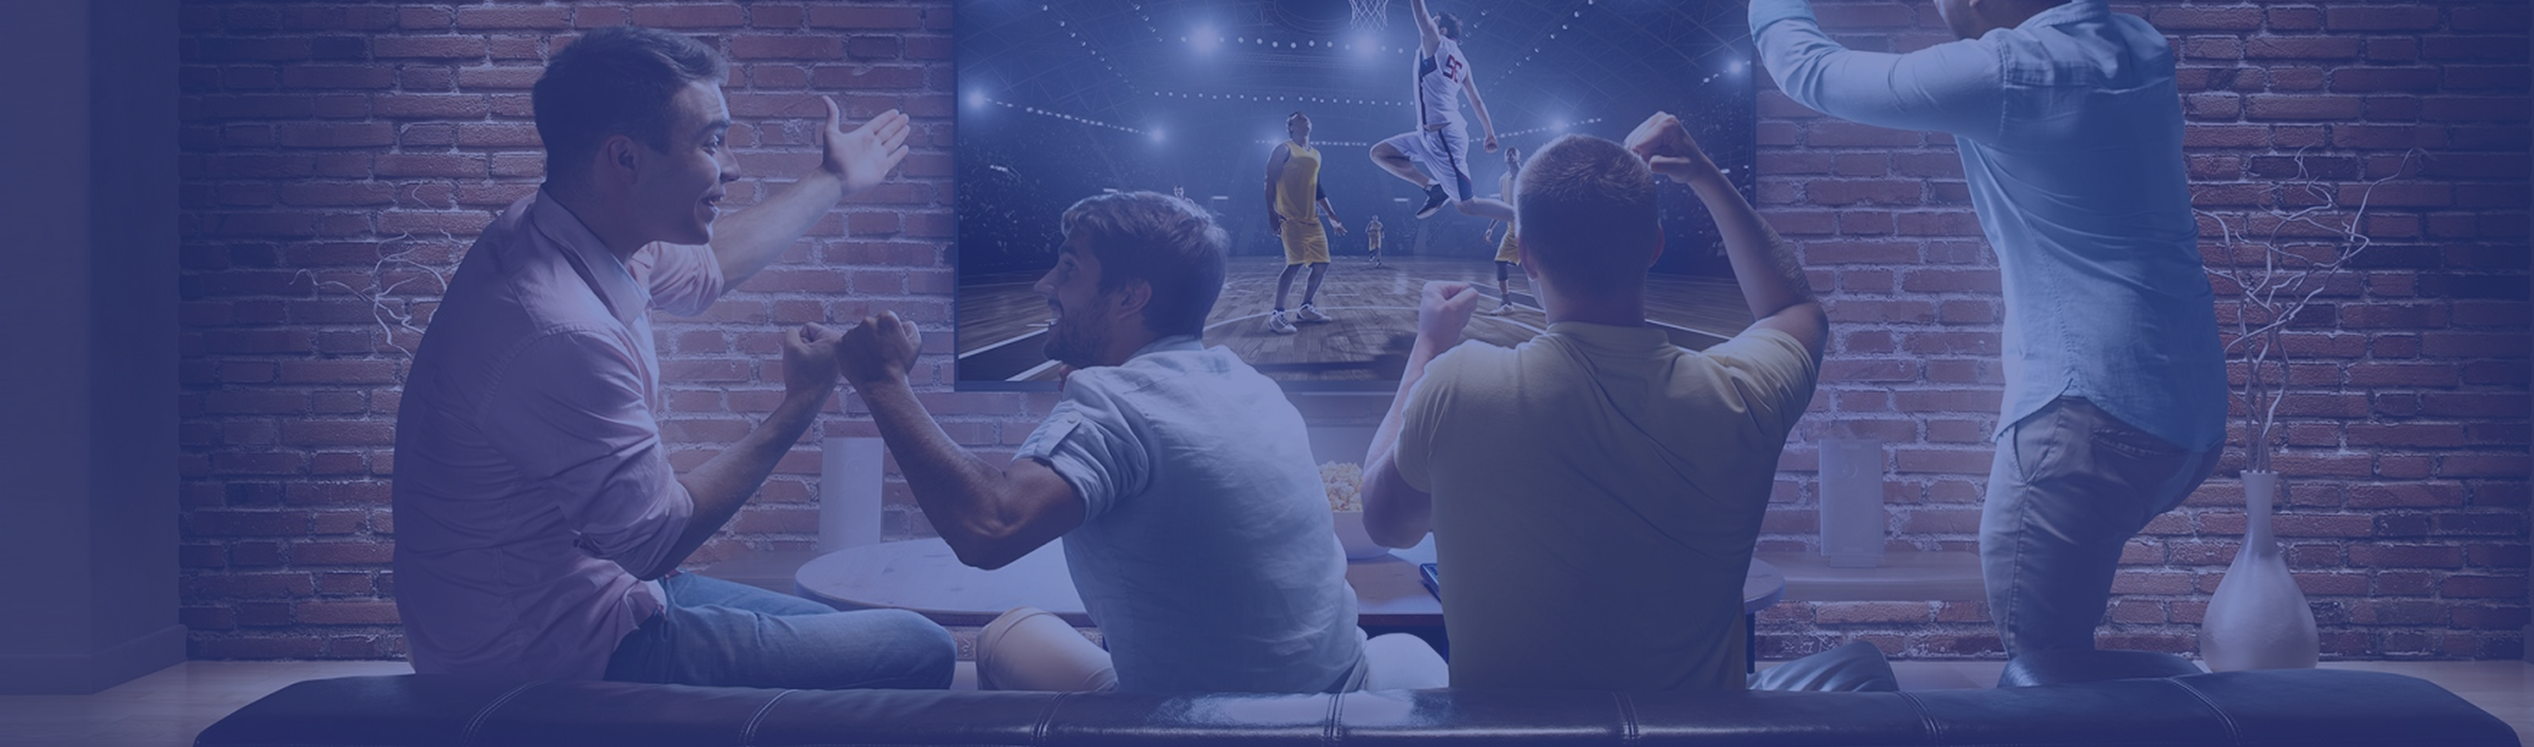
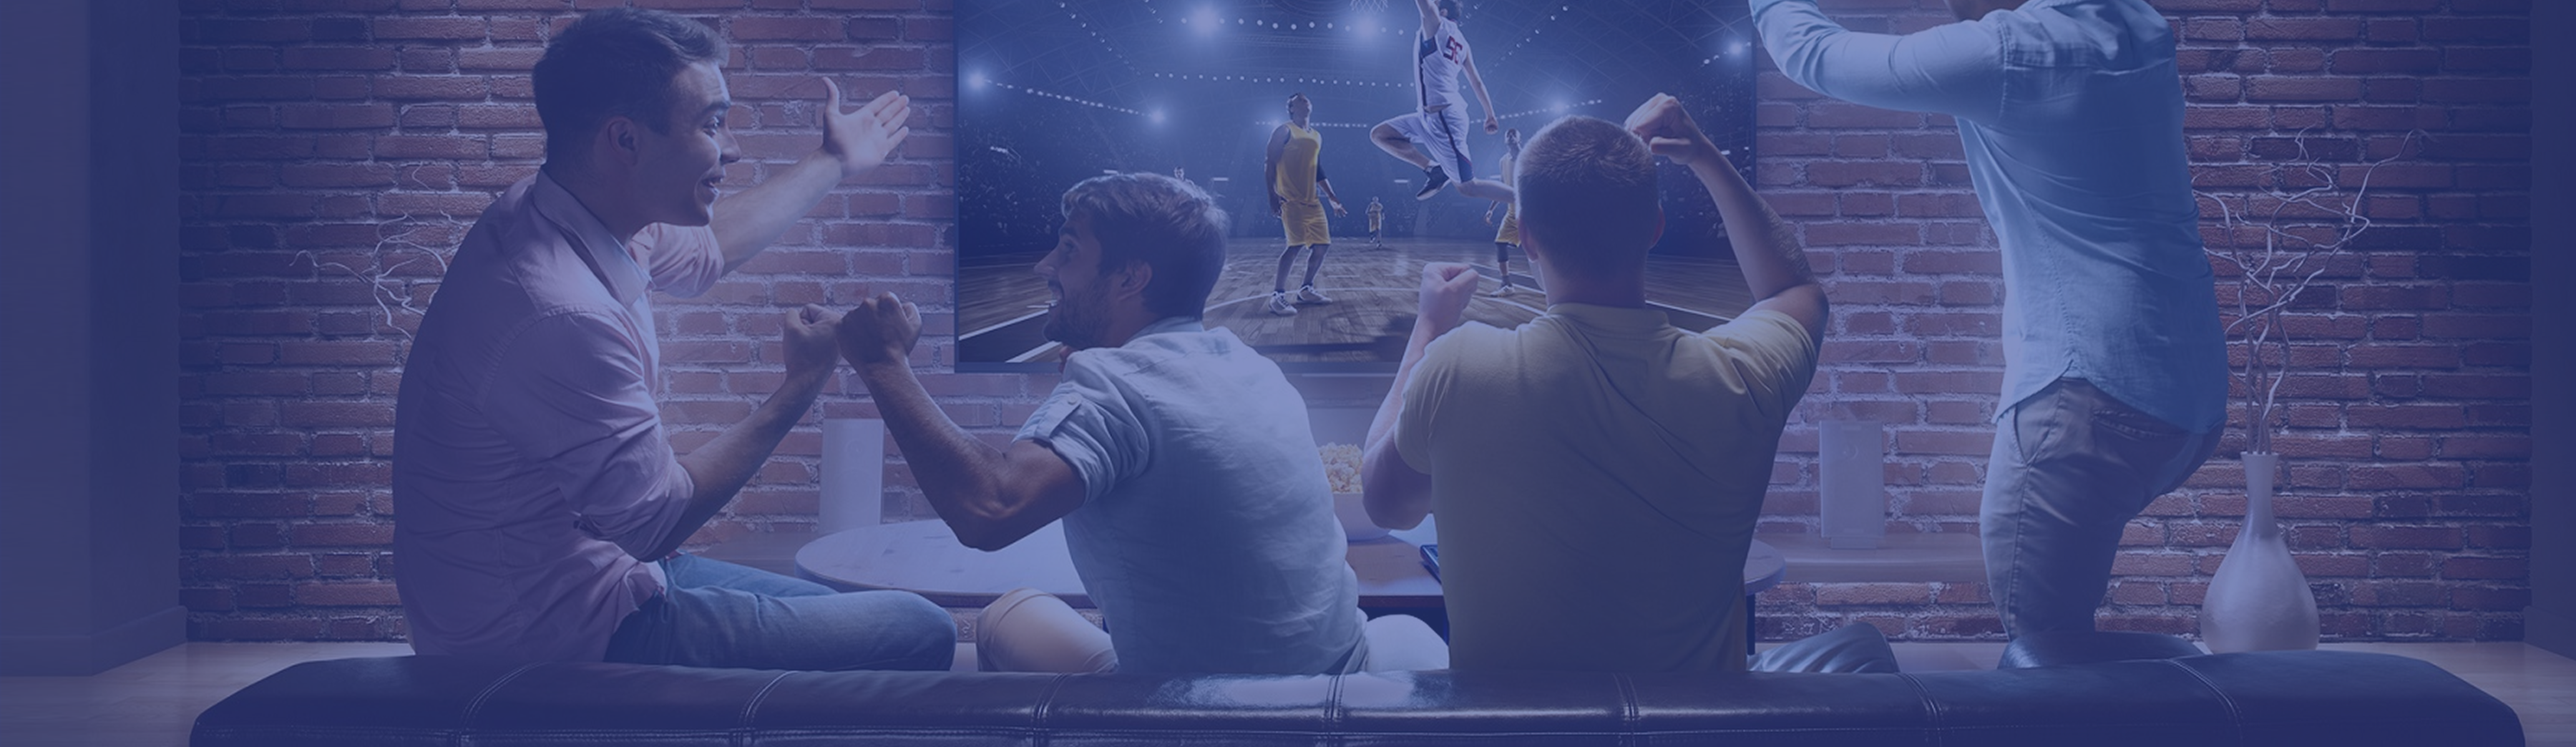
123

Changed region(s): [[0.0311, 0.0, 0.9938, 1.0], [0.2484, 0.9808, 0.3727, 1.0], [0.9627, 0.9502, 0.9938, 1.0]]

diff --git a/css/style.css b/css/style.css
@@ -185,6 +185,17 @@ header {
 
 }
 
+.adventure__left_top:after{
+  content: "";
+  position: absolute;
+  width: 100%;
+  height: 100%;
+  background-color: rgba(60, 85, 205, 0.5);
+  margin-left: -100%;
+  top: 0;
+
+}
+
 .adventure__left__bottom{
   max-width: 100% !important;
 }
@@ -195,12 +206,63 @@ header {
   max-width: 100% !important;
 }
 
+.adventure__center__bottom-1{
+  font-size: 30px;
+  font-family: 'Gilroy-ExtraBold';
+  color: white;
+  margin-left: 45px;
+  margin-top: 70px;
+  margin-bottom: 5px;
+}
+.adventure__center__bottom-2{
+  font-family: 'Gilroy-light';
+  color: white;
+  margin-left: 45px;
+  font-size: 30px;
+  margin-bottom: 0;
+
+}
+
+.adventure__center__bottom-3{
+  color: white;
+  font-size: 15px;
+  margin-left: 45px;
+  font-family: 'Gilroy-light';
+}
+
+.adventure__right__text-1{
+  color: white;
+  font-size: 23px;
+  font-family: 'Gilroy-ExtraBold';
+  margin-bottom: 0;
+  margin-top: 80px;
+  margin-left: 50px;
+
+}
+.adventure__right__text-2{
+  color: white;
+  font-family: 'Gilroy-light';
+  margin-bottom: 0;
+  font-size: 23px;
+  margin-left: 50px;
+}
 .adventure__center__bottom{
   background-color: rgba(60, 85, 205, 0.5);
 }
 
 .adventure__right-top{
   background-color: rgba(60, 85, 205, 0.5);
+}
+
+.adventure__right-top:after{
+  content: "";
+  position: absolute;
+  width: 100%;
+  height: 100%;
+  background-color: rgba(60, 85, 205, 0.5);
+  margin-left: 100%;
+  top: 0;
+
 }
 
 .adventure__center__bottom, .adventure__right-top, .adventure__right-bottom{
@@ -334,7 +396,7 @@ header {
   left:0;
   margin-top: -50px;
   width: 100%;
-  height: 5px;
+  height: 3px;
   color: #eaf3f7;
   background-color: #eaf3f7;
 }
@@ -345,7 +407,7 @@ header {
   left:0;
   margin-top: -50px;
   width: 100%;
-  height: 5px;
+  height: 3px;
   color: #eaf3f7;
   background-color: #eaf3f7;
 }
